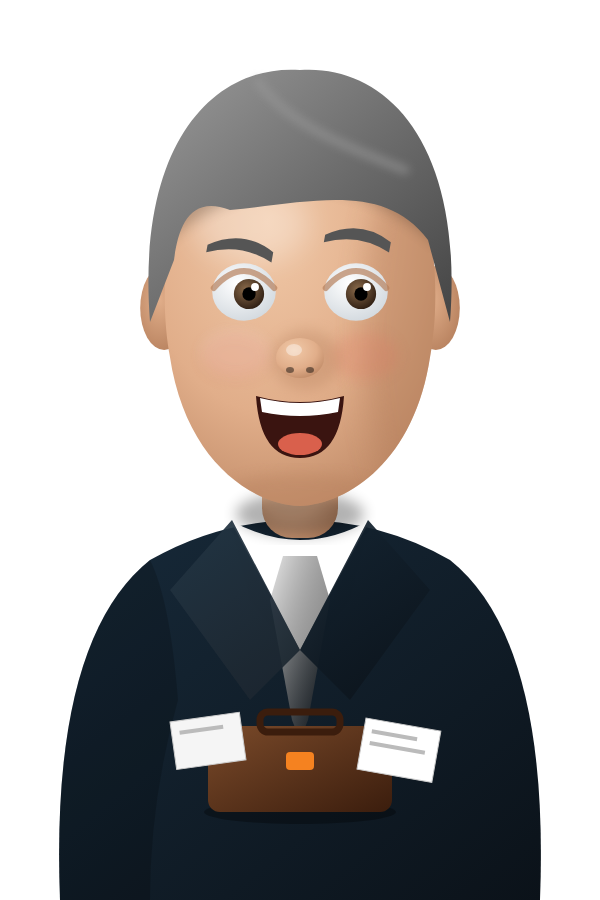
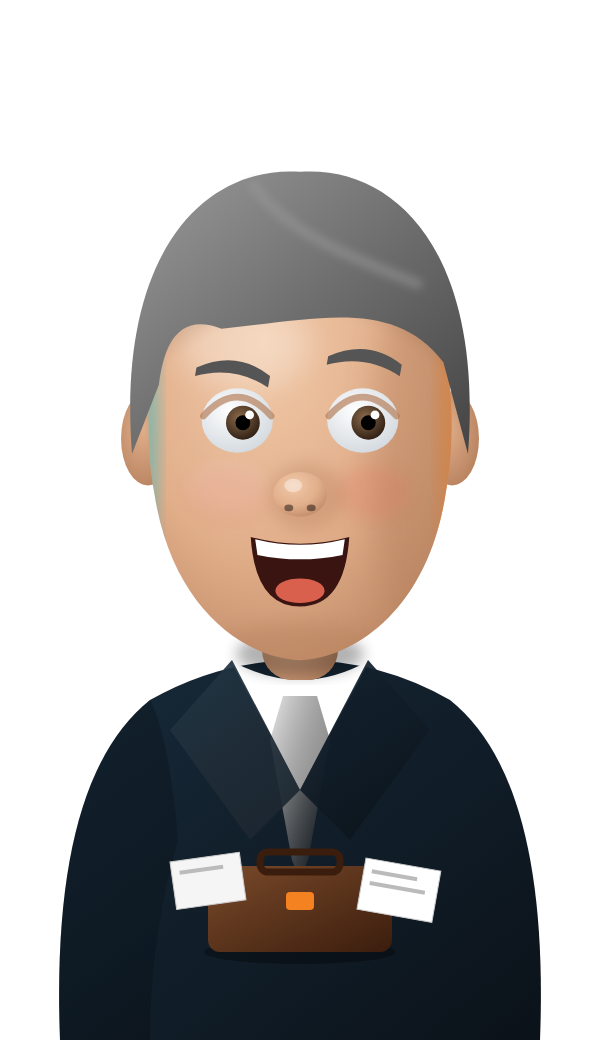
Caricaturas v2: traços mais exagerados, luz de contorno e nomes no ecrã
Claude-Session: https://claude.ai/code/session_01NgGM5uXfNVxrxKnHrgdLVu

Changed region(s): [[0.12, 0.0622, 0.87, 0.9333], [0.87, 0.7778, 0.9, 0.9022], [0.09, 0.8089, 0.12, 0.9022]]

diff --git a/rubrica-quem-disse-isto/01_imagem/build/suspeitos.js b/rubrica-quem-disse-isto/01_imagem/build/suspeitos.js
@@ -6,17 +6,17 @@ const O = '#F58220', OD = '#D96516', W = '#FFFFFF', K = '#171717', N = '#172A3A'
 const PRESETS = {
   // Traços baseados nas fotos de referência (cabelo, sobrancelhas, óculos, forma da cara).
   cavaco: { nome: 'Cavaco Silva', pele: ['#F2CDAE', '#E2B08C', '#B9835F'], cabelo: ['#C9CED3', '#8E959C', '#5C636A'],
-    w: 130, h: 228, jaw: .6, hl: 30, estilo: 'atras', sobr: { t: 20, w: 74, cor: '#4A4F55' }, oculos: 'nenhum', nariz: 1.15, orelha: 1,
+    w: 122, h: 250, jaw: .5, hl: -26, vol: 34, lid: .6, nl: 1.35, estilo: 'atras', sobr: { t: 24, w: 80, cor: '#3B4045' }, oculos: 'nenhum', nariz: 1.1, orelha: 1,
     rugas: true, sorriso: .0, fato: N, gravata: OD, camisa: G, prop: 'caneta', brilho: 1 },
   passos: { nome: 'Passos Coelho', pele: ['#F3CBAA', '#E4B08C', '#B98562'], cabelo: ['#6B4A36', '#3E2A1F', '#22160F'],
-    w: 128, h: 224, jaw: .56, hl: 14, estilo: 'lado', sobr: { t: 15, w: 68, cor: '#33231A' }, oculos: 'fino', nariz: 1.05, orelha: 1,
+    w: 120, h: 244, jaw: .5, hl: 6, vol: 40, lid: .15, nl: 1.2, estilo: 'lado', sobr: { t: 20, w: 76, cor: '#2A1B13' }, oculos: 'fino', nariz: 1.05, orelha: 1,
     rugas: false, sorriso: .0, fato: N, gravata: O, camisa: W, prop: 'copo', brilho: 1 },
   // PROVISÓRIO: sem foto utilizável → só adereços do briefing, traços genéricos (sem semelhança).
   portas: { nome: 'Paulo Portas (PROVISÓRIO)', pele: ['#F1C9A8', '#E1AE8A', '#B6805D'], cabelo: ['#9A9A9A', '#6E6E6E', '#444'],
     w: 140, h: 200, jaw: .64, hl: 22, estilo: 'lado', sobr: { t: 13, w: 66, cor: '#555' }, oculos: 'nenhum', nariz: 1.0, orelha: 1,
     rugas: false, sorriso: .1, fato: N, gravata: G, camisa: W, prop: 'pasta', brilho: 1 },
   montenegro: { nome: 'Luís Montenegro', pele: ['#EDBF9B', '#D9A07A', '#AD7653'], cabelo: ['#4A3B33', '#2B211C', '#15100D'],
-    w: 166, h: 184, jaw: .8, hl: 4, estilo: 'curto', sobr: { t: 16, w: 68, cor: '#241B17' }, oculos: 'nenhum', nariz: 1.0, orelha: 1,
+    w: 176, h: 180, jaw: .88, hl: -4, vol: 26, lid: .1, nl: .9, estilo: 'lado', sobr: { t: 22, w: 80, cor: '#1c1411' }, oculos: 'nenhum', nariz: 1.0, orelha: 1,
     rugas: false, sorriso: .75, fato: N, gravata: W, camisa: W, prop: 'microfone', brilho: 1 },
   apresentador: { nome: 'Apresentador', pele: ['#F5D3B5', '#E6B796', '#BC8A67'], cabelo: ['#3B3B3B', '#171717', '#050505'],
     w: 140, h: 200, jaw: .62, hl: 8, estilo: 'curto', sobr: { t: 14, w: 66, cor: '#171717' }, oculos: 'nenhum', nariz: .95, orelha: 1,
@@ -50,8 +50,8 @@ function suspeito(key, expr = 'neutro', uid = key) {
   const brow = (sx, ang, raise) => `<g transform="translate(${cx + sx * ex * 1.05} ${cy - 52 + raise}) rotate(${ang * sx})"><path d="M${-b.w / 2} ${b.t * .5} Q0 ${-b.t * 1.2} ${b.w / 2} ${b.t * .2} L${b.w / 2} ${b.t * 1.0} Q0 ${-b.t * .1} ${-b.w / 2} ${b.t * 1.1}Z" fill="${b.cor}"/></g>`;
   // cabelo
   const top = cy - h;
-  const hairOuter = `M${cx - w - 10} ${cy + 22} C${cx - w - 24} ${top + 40} ${cx - w * .6} ${top - 36} ${cx} ${top - 30} C${cx + w * .6} ${top - 36} ${cx + w + 24} ${top + 40} ${cx + w + 10} ${cy + 22}`;
-  const hl = P.hl;
+  const vol0 = P.vol || 0; const hairOuter = `M${cx - w - 10} ${cy + 22} C${cx - w - 24 - vol0 * .3} ${top + 40} ${cx - w * .6} ${top - 36 - vol0} ${cx} ${top - 30 - vol0} C${cx + w * .6} ${top - 36 - vol0} ${cx + w + 24 + vol0 * .3} ${top + 40} ${cx + w + 10} ${cy + 22}`;
+  const hl = P.hl; const vol = P.vol || 0;
   let hair = '';
   if (P.estilo === 'atras') {
     hair = `<path d="${hairOuter} L${cx + w - 14} ${cy - 62} C${cx + w * .8} ${cy - 128} ${cx + w * .45} ${cy - 150 + hl} ${cx} ${cy - 150 + hl} C${cx - w * .45} ${cy - 150 + hl} ${cx - w * .8} ${cy - 128} ${cx - w + 14} ${cy - 62}Z" fill="url(#${id('hair')})"/>
@@ -103,19 +103,22 @@ function suspeito(key, expr = 'neutro', uid = key) {
   <path d="M283 556 H317 L330 600 L308 720 L300 740 L292 720 L270 600Z" fill="url(#${id('tie')})"/>
   <path d="M232 520 L170 590 L250 700 L300 650Z M368 520 L430 590 L350 700 L300 650Z" fill="url(#${id('suit')})" opacity=".92"/>
   <path d="M232 520 L170 590 L250 700 L300 650Z" fill="#fff" opacity=".05"/>
-  <rect x="262" y="452" width="76" height="86" rx="30" fill="url(#${id('skin')})"/>
+  <rect x="262" y="420" width="76" height="120" rx="30" fill="url(#${id('skin')})"/>
   <ellipse cx="300" cy="${cy + h * .98 + 18}" rx="64" ry="22" fill="#000" opacity=".3" filter="url(#${id('bl2')})"/>
+  <g transform="translate(300 500) scale(${P.escala || 1.12}) translate(-300 -${500 + Math.round(1.03 * h - 218)})">
   <ellipse cx="${cx - w * .97}" cy="${cy + 8}" rx="${24 * P.orelha}" ry="${42 * P.orelha}" fill="url(#${id('ear')})"/>
   <ellipse cx="${cx + w * .97}" cy="${cy + 8}" rx="${24 * P.orelha}" ry="${42 * P.orelha}" fill="url(#${id('ear')})"/>
   <path d="${head}" fill="url(#${id('skin')})"/>
   <g clip-path="url(#${id('hc')})">
+    <ellipse cx="${cx + w * 1.0}" cy="${cy}" rx="16" ry="${h * .8}" fill="#F58220" opacity=".6" filter="url(#${id('bl2')})"/>
+    <ellipse cx="${cx - w * 1.0}" cy="${cy}" rx="14" ry="${h * .7}" fill="#22BBCB" opacity=".45" filter="url(#${id('bl2')})"/>
     <ellipse cx="${cx + w * .95}" cy="${cy + 30}" rx="${w * .5}" ry="${h}" fill="${s3}" opacity=".45" filter="url(#${id('bl')})"/>
     <ellipse cx="${cx - w * .35}" cy="${cy - h * .38}" rx="${w * .42}" ry="${h * .2}" fill="#fff" opacity=".28" filter="url(#${id('bl')})"/>
     <ellipse cx="${cx - w * .46}" cy="${cy + 52}" rx="34" ry="24" fill="#fff" opacity=".18" filter="url(#${id('bl2')})"/>
     <ellipse cx="${cx + w * .46}" cy="${cy + 56}" rx="34" ry="24" fill="#E0735F" opacity=".22" filter="url(#${id('bl2')})"/>
     <ellipse cx="${cx - w * .46}" cy="${cy + 56}" rx="34" ry="24" fill="#E0735F" opacity=".18" filter="url(#${id('bl2')})"/>
     <ellipse cx="${cx}" cy="${cy + h * 1.0}" rx="${w * .6}" ry="26" fill="${s3}" opacity=".4" filter="url(#${id('bl2')})"/>
-    <path d="M${cx - w - 10} ${cy - 60} Q${cx} ${cy - 190} ${cx + w + 10} ${cy - 60}" fill="none" stroke="#000" stroke-width="22" opacity=".22" filter="url(#${id('bl2')})"/>
+    <path d="M${cx - w - 10} ${cy - 60} Q${cx} ${cy - 190} ${cx + w + 10} ${cy - 60}" fill="none" stroke="#000" stroke-width="22" opacity=".08" filter="url(#${id('bl2')})"/>
   </g>
   ${rugas}
   <g id="olhos">
@@ -126,13 +129,15 @@ function suspeito(key, expr = 'neutro', uid = key) {
     <path d="M${cx - ex - er} ${ey - 4} Q${cx - ex} ${ey - er * 1.25} ${cx - ex + er} ${ey - 4}" fill="none" stroke="${s3}" stroke-width="6" stroke-linecap="round" opacity=".7"/>
     <path d="M${cx + ex - er} ${ey - 4} Q${cx + ex} ${ey - er * 1.25} ${cx + ex + er} ${ey - 4}" fill="none" stroke="${s3}" stroke-width="6" stroke-linecap="round" opacity=".7"/>
   </g>
+  ${P.lid ? [-1, 1].map((sx) => `<g><clipPath id="${id('lc' + sx)}"><ellipse cx="${cx + sx * ex}" cy="${ey}" rx="${er * 1.05}" ry="${er * .95}"/></clipPath><rect clip-path="url(#${id('lc' + sx)})" x="${cx + sx * ex - er * 1.1}" y="${ey - er}" width="${er * 2.2}" height="${er * (.25 + P.lid)}" fill="${s2}"/><path d="M${cx + sx * ex - er} ${ey - er + er * (.25 + P.lid)} Q${cx + sx * ex} ${ey - er + er * (.25 + P.lid) + 4} ${cx + sx * ex + er} ${ey - er + er * (.25 + P.lid)}" fill="none" stroke="${s3}" stroke-width="4" opacity=".8" clip-path="url(#${id('lc' + sx)})"/></g>`).join('') : ''}
   <g id="sobrancelhas">${brow(-1, E.brow[0], E.raiseL)}${brow(1, E.brow[1], E.raiseR)}</g>
-  <g id="nariz" transform="translate(${cx} ${cy + 46}) scale(${P.nariz})"><ellipse cx="6" cy="14" rx="34" ry="30" fill="${s3}" opacity=".35" filter="url(#${id('bl2')})"/><ellipse cx="0" cy="12" rx="24" ry="20" fill="url(#${id('skin')})"/><ellipse cx="-6" cy="4" rx="8" ry="6" fill="#fff" opacity=".4"/><ellipse cx="-10" cy="24" rx="4" ry="3" fill="#000" opacity=".45"/><ellipse cx="10" cy="24" rx="4" ry="3" fill="#000" opacity=".45"/></g>
+  <g id="nariz" transform="translate(${cx} ${cy + 46}) scale(${P.nariz} ${P.nariz * (P.nl || 1)})"><ellipse cx="6" cy="14" rx="34" ry="30" fill="${s3}" opacity=".35" filter="url(#${id('bl2')})"/><ellipse cx="0" cy="12" rx="24" ry="20" fill="url(#${id('skin')})"/><ellipse cx="-6" cy="4" rx="8" ry="6" fill="#fff" opacity=".4"/><ellipse cx="-10" cy="24" rx="4" ry="3" fill="#000" opacity=".45"/><ellipse cx="10" cy="24" rx="4" ry="3" fill="#000" opacity=".45"/></g>
   <g id="boca">${boca}</g>
   ${oculos}
-  <g id="cabelo">${hair}</g>`;
+  <g id="cabelo">${hair}</g>
+  </g>`;
   return { body, props, uid };
 }
 
-const wrapBust = (s, scale = 1) => `<svg xmlns="http://www.w3.org/2000/svg" width="${600 * scale}" height="${900 * scale}" viewBox="0 0 600 900">${s.body}<g transform="translate(300 700)">${s.props}</g></svg>`;
+const wrapBust = (s, scale = 1) => `<svg xmlns="http://www.w3.org/2000/svg" width="${600 * scale}" height="${1040 * scale}" viewBox="0 -140 600 1040">${s.body}<g transform="translate(300 700)">${s.props}</g></svg>`;
 module.exports = { PRESETS, EXPR, suspeito, wrapBust, O, OD, W, K, N, G };

diff --git a/rubrica-quem-disse-isto/01_imagem/build/build_suspeitos.js b/rubrica-quem-disse-isto/01_imagem/build/build_suspeitos.js
@@ -5,15 +5,16 @@ const P = (n) => `file://${R}/png_brand/${n}.png`;
 const order = ['cavaco', 'passos', 'portas', 'montenegro'];
 const lineup = (expr) => {
   const xs = [330, 780, 1230, 1680];
-  const busts = order.map((k, i) => { const s = suspeito(k, expr, k + i); return `<svg style="position:absolute;left:${xs[i] - 200}px;top:120px" width="400" height="600" viewBox="0 0 600 900">${s.body}</svg>`; }).join('');
+  const busts = order.map((k, i) => { const s = suspeito(k, expr, k + i); return `<svg style="position:absolute;left:${xs[i] - 220}px;top:40px" width="440" height="763" viewBox="0 -140 600 1040">${s.body}</svg>`; }).join('');
   const props = order.map((k, i) => { const s = suspeito(k, expr, k + 'p' + i); return `<svg style="position:absolute;left:${xs[i] - 150}px;top:600px;overflow:visible" width="300" height="200" viewBox="-150 0 300 200"><g transform="scale(1.05)">${s.props}</g>${s.body.includes('defs') ? s.body.match(/<defs>[\s\S]*?<\/defs>/)[0] : ''}</svg>`; }).join('');
-  const cards = xs.map((x, i) => `<div class=glass style="position:absolute;left:${x - 150}px;top:880px;width:300px;padding:14px 20px;display:flex;gap:14px;border-radius:22px;font-family:M"><i style="width:5px;border-radius:3px;background:#F58220"></i><div><div style="font-size:30px;font-weight:700">Suspeito n.º ${i + 1}</div></div></div>`).join('');
+  const NOMES = ['Cavaco Silva', 'Passos Coelho', 'Paulo Portas', 'Luís Montenegro'];
+  const cards = xs.map((x, i) => `<div class=glass style="position:absolute;left:${x - 170}px;top:860px;width:340px;padding:14px 22px;display:flex;gap:14px;border-radius:22px;font-family:M"><i style="width:5px;border-radius:3px;background:#F58220"></i><div><div style="font-size:32px;font-weight:700">${NOMES[i]}</div><div style="font-size:20px;font-weight:700;opacity:.85;letter-spacing:2px">SUSPEITO N.º ${i + 1}</div></div></div>`).join('');
   return `<body style="margin:0;width:1920px;height:1080px;position:relative;overflow:hidden;background:#111">
   <style>@font-face{font-family:M;font-weight:700;src:url(file://${__dirname}/fonts/montserrat-latin-700-normal.woff2)}.glass{background:rgba(255,255,255,.2);border:1.5px solid rgba(255,255,255,.45);color:#fff;box-shadow:0 10px 30px rgba(0,0,0,.25)}</style>
   <img src="${P('fundo_estudio_16x9')}" style="position:absolute;inset:0">${busts}
   <img src="${P('mesa_estudio_16x9')}" style="position:absolute;inset:0">${props}
   <img src="${P('overlay_gradiente_16x9')}" style="position:absolute;inset:0">${cards}
-  <img src="${P('cartao_vidro_ficcional')}" style="position:absolute;left:40px;top:30px;width:460px"></body>`;
+  <img src="${P('cartao_vidro_ficcional')}" style="position:absolute;left:1400px;top:24px;width:460px"></body>`;
 };
 (async () => {
   const b = await chromium.launch(); const tmp = path.join(__dirname, '_t.html');
@@ -21,7 +22,7 @@ const lineup = (expr) => {
   for (const k of [...order, 'apresentador']) for (const e of ['neutro', 'nega']) {
     const svg = wrapBust(suspeito(k, e), 1);
     fs.writeFileSync(path.join(R, 'svg', `3d_${k}_${e}.svg`), svg);
-    await shot(`<body style="margin:0;background:transparent">${svg}</body>`, 600, 900, `${k}_${e}.png`, true);
+    await shot(`<body style="margin:0;background:transparent">${svg}</body>`, 600, 1040, `${k}_${e}.png`, true);
   }
   await shot(lineup('neutro'), 1920, 1080, 'teste_quatro_juntos_neutro.png');
   await shot(lineup('nega'), 1920, 1080, 'teste_quatro_juntos_nega.png');

diff --git a/rubrica-quem-disse-isto/PLANO.md b/rubrica-quem-disse-isto/PLANO.md
@@ -35,3 +35,4 @@ Estado em 2026-11-04. **Fase atual: pesquisa e proposta.** Nada de imagens finai
 - `01_imagem/png_personagens/`: 4 suspeitos + Apresentador (neutro e «nega») e `teste_quatro_juntos_*.png`.
 - Gerado por `build/suspeitos.js` (mesmas camadas para todos). Tons de pele/cabelo = extras à paleta.
 - Paulo Portas **provisório** (sem foto utilizável, sem semelhança).
+- v2 (nomes no ecrã, traços mais exagerados, luz de contorno laranja/azul-verde): ver `png_personagens/`.
